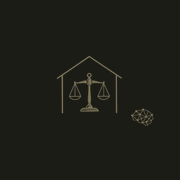
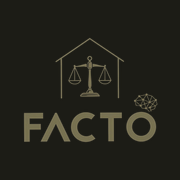
Inclui a palavra FACTO no icone de atalho
Usa a logo completa (casa + FACTO + cerebro) no fundo facto-dark full-bleed, com cache-bust novo.

diff --git a/src/app/layout.tsx b/src/app/layout.tsx
@@ -34,13 +34,13 @@ export const metadata: Metadata = {
   },
   icons: {
     icon: [
-      { url: "/favicon.ico?v=20260801d", sizes: "48x48" },
-      { url: "/icon-atalho-192.png?v=20260801d", sizes: "192x192", type: "image/png" },
-      { url: "/icon-atalho-512.png?v=20260801d", sizes: "512x512", type: "image/png" },
+      { url: "/favicon.ico?v=20260801e", sizes: "48x48" },
+      { url: "/icon-atalho-192.png?v=20260801e", sizes: "192x192", type: "image/png" },
+      { url: "/icon-atalho-512.png?v=20260801e", sizes: "512x512", type: "image/png" },
     ],
     apple: [
       {
-        url: "/icon-atalho-180.png?v=20260801d",
+        url: "/icon-atalho-180.png?v=20260801e",
         sizes: "180x180",
         type: "image/png",
       },
